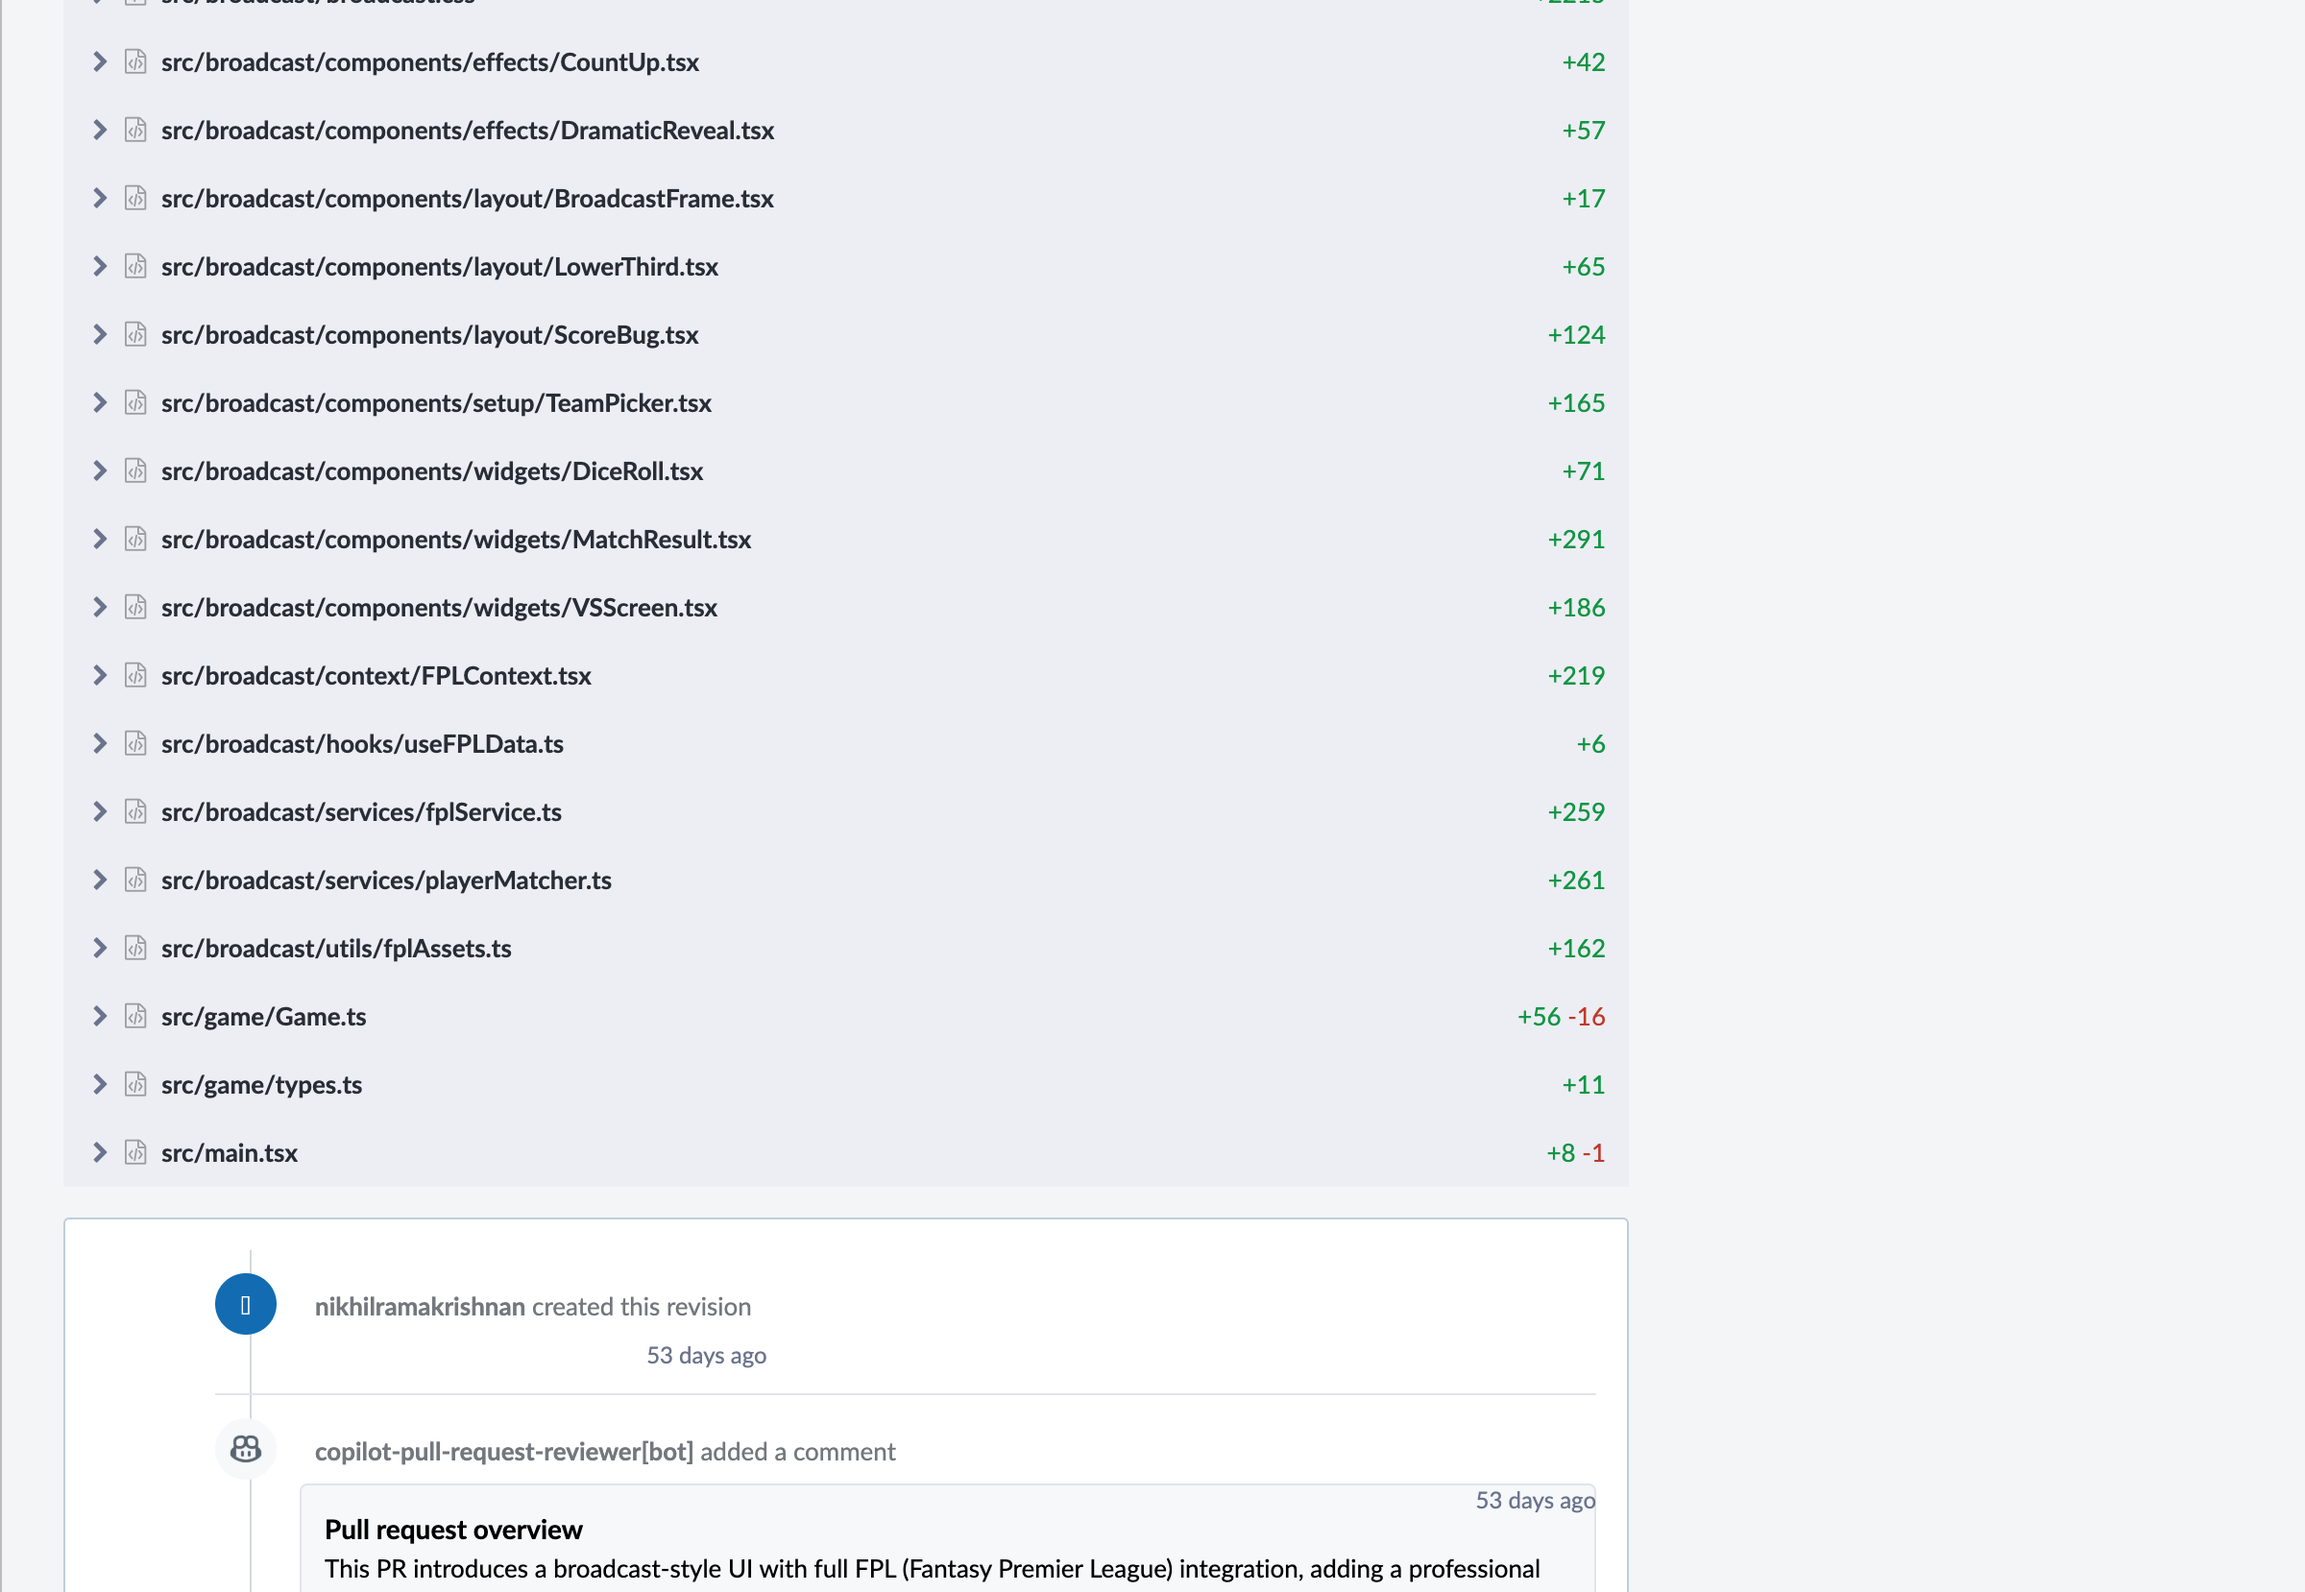
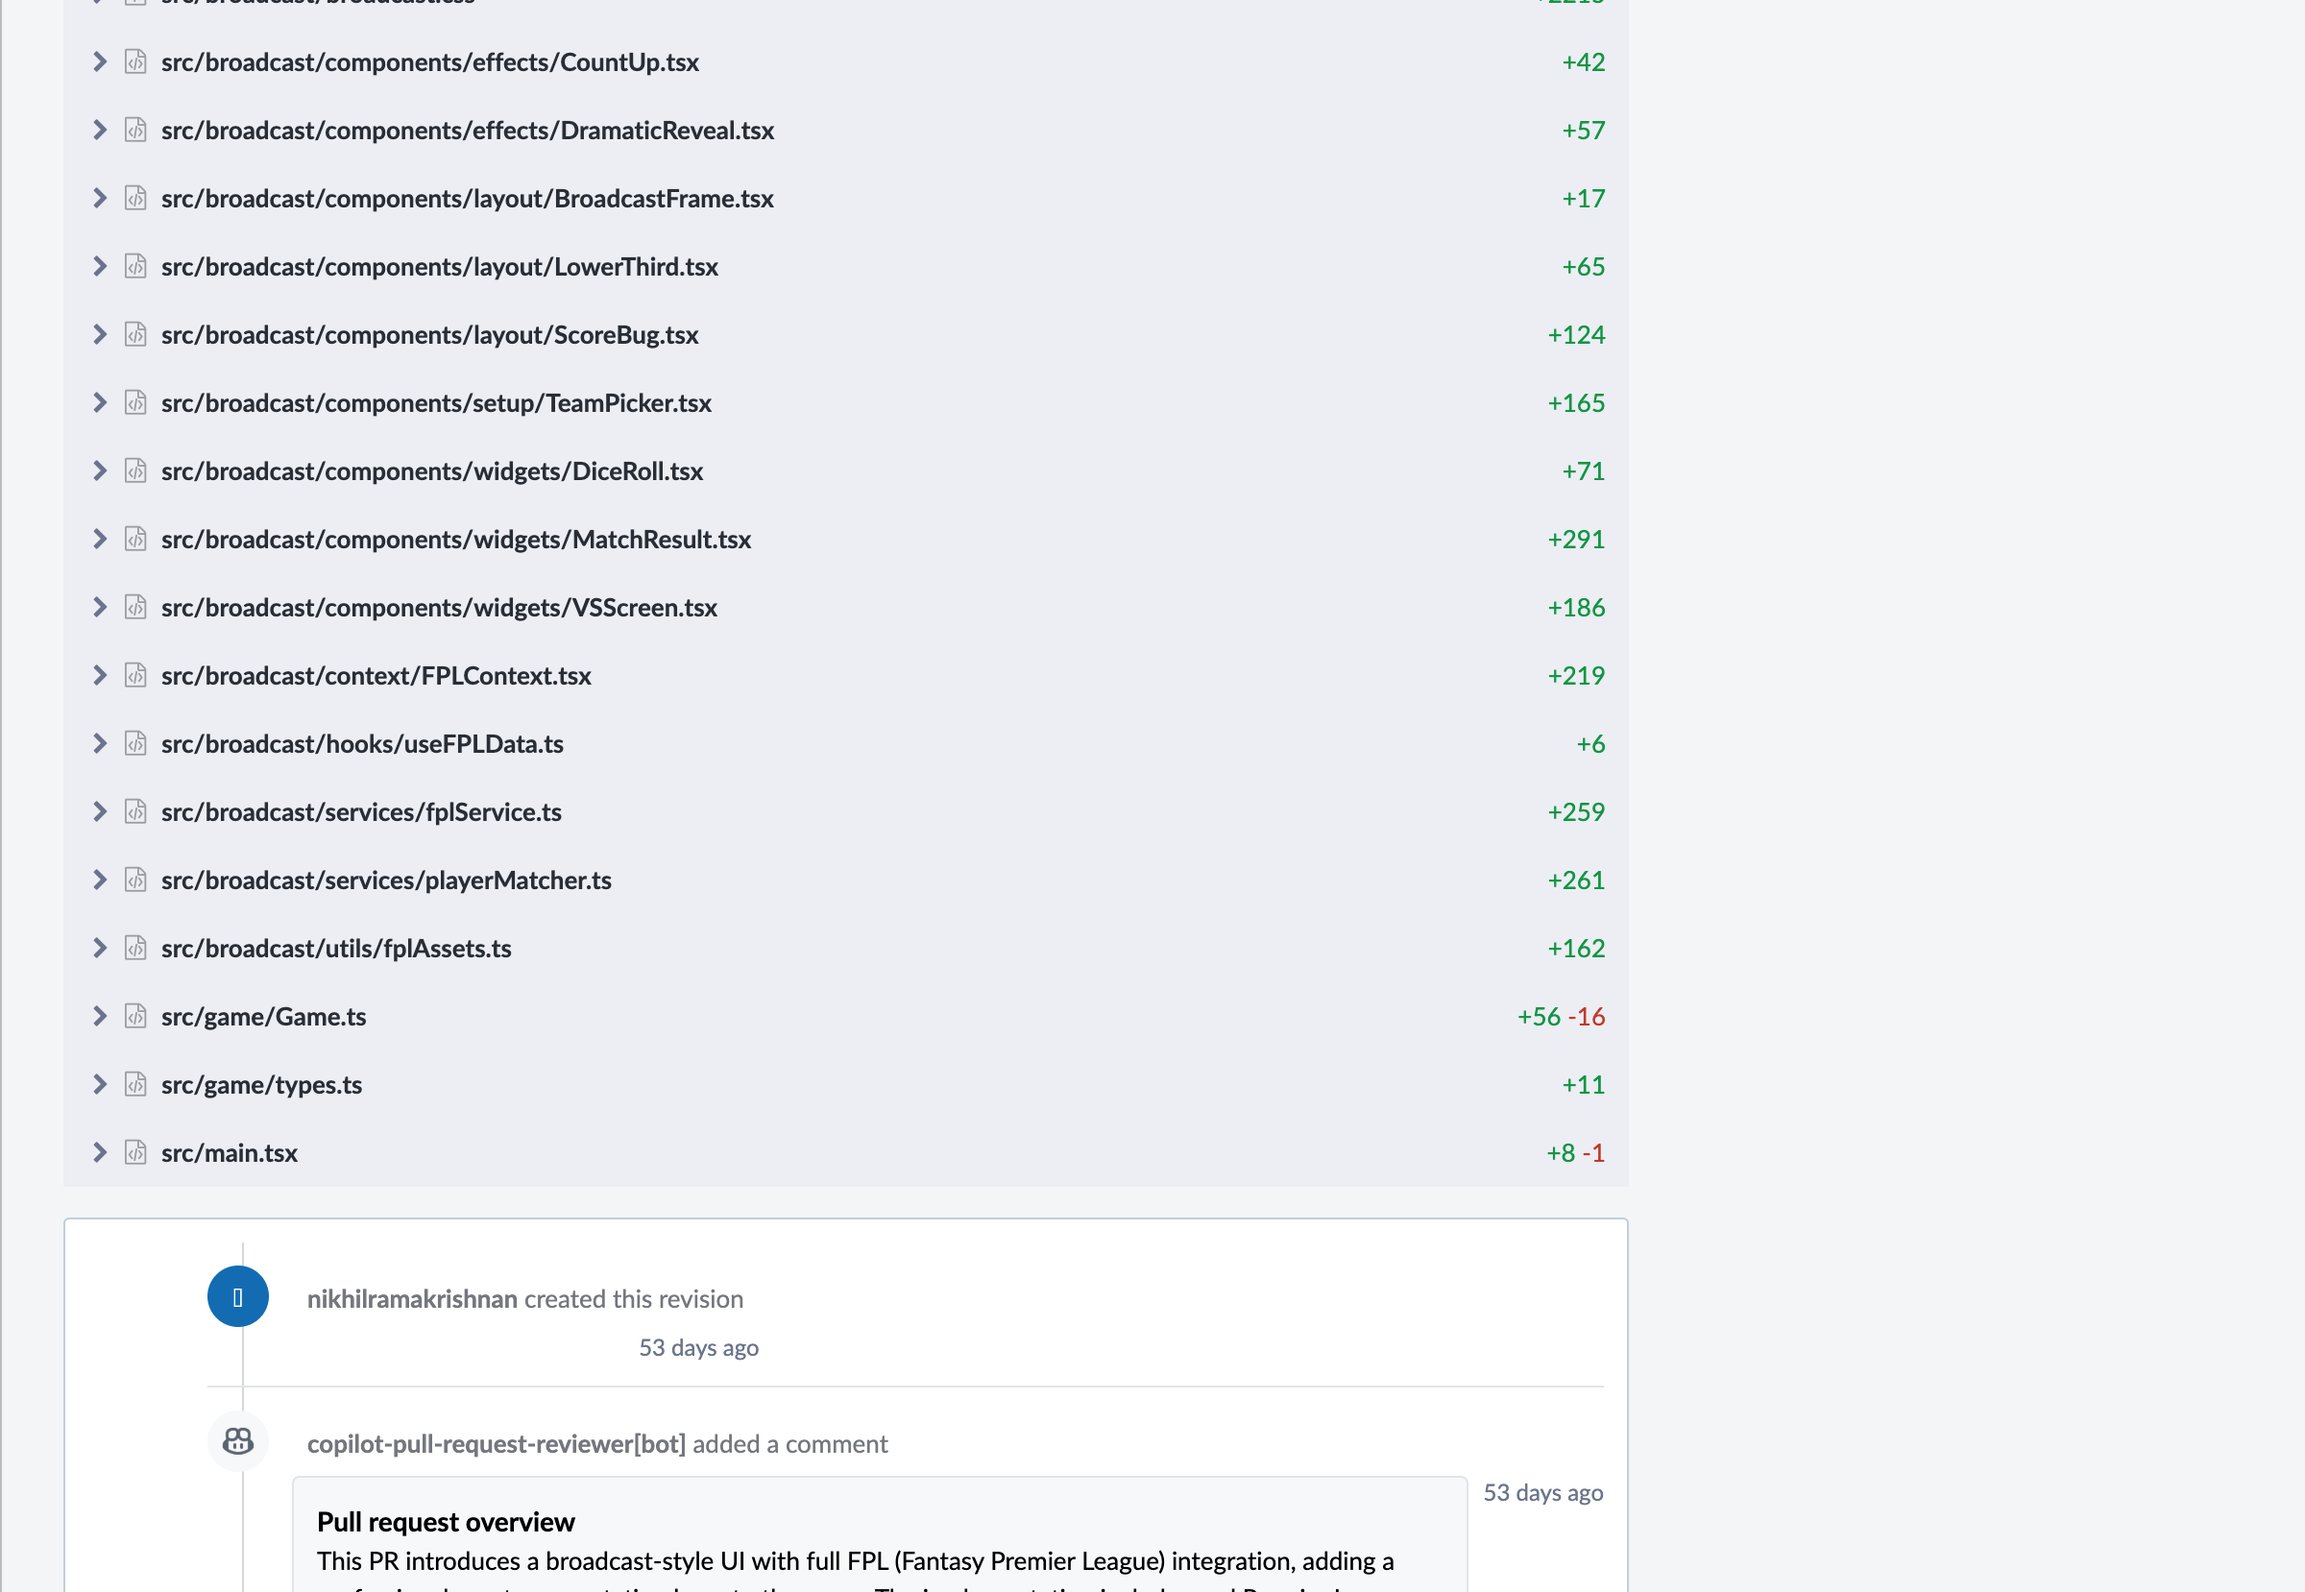
fix: timeline comment overflow and indentation
- Add overflow-x:auto and max-width:100% to comment body containers
- Add word-break:break-all on code elements in timeline
- Reduce timeline box padding from 16px to 12px
- Update screenshots

Changed region(s): [[0.125, 0.9536, 0.6562, 1.0], [0.0938, 0.7998, 0.375, 0.9228], [0.625, 0.9228, 0.6875, 0.9536]]

diff --git a/internal/templates/page.html b/internal/templates/page.html
@@ -97,6 +97,9 @@
       text-decoration: none;
     }
     .phabricator-main-menu-alerts .alert-notifications:hover { color: rgba(255,255,255,0.8); }
+    /* Timeline comment overflow */
+    .phui-timeline-view code { overflow-wrap: break-word; word-break: break-all; }
+    .phui-timeline-view pre { overflow-x: auto; max-width: 100%; }
     /* Dark mode fixes */
     .phui-theme-dark .phui-comment-form-view { background: #1B2028; border-color: #464C5C; }
     .phui-theme-dark .phui-comment-action-bar { border-color: #464C5C; }

diff --git a/internal/server/pr_handler.go b/internal/server/pr_handler.go
@@ -364,7 +364,7 @@ func renderTimeline(b *strings.Builder, pr *ghapi.PullRequest, reviews []ghapi.R
 		return
 	}
 
-	b.WriteString(`<div class="phui-box phui-box-border phui-object-box" style="padding:16px; margin:16px 0;">`)
+	b.WriteString(`<div class="phui-box phui-box-border phui-object-box" style="padding:12px; margin:16px 0;">`)
 	b.WriteString(`<div class="phui-timeline-view">`)
 	for i, ev := range events {
 		renderTimelineEvent(b, ev, i == len(events)-1)
@@ -406,7 +406,7 @@ func renderTimelineEvent(b *strings.Builder, ev timelineEvent, isLast bool) {
 	if isMajor {
 		fmt.Fprintf(b, `<div class="phui-timeline-extra" style="font-size:12px; color:#6b748c; margin-bottom:8px;">%s</div>`,
 			esc(timeAgo(ev.CreatedAt)))
-		b.WriteString(`<div style="background:#f6f8fa; border:1px solid #e3e4e8; border-radius:4px; padding:12px; font-size:13px; line-height:1.5; overflow-wrap:break-word; word-break:break-word;">`)
+		b.WriteString(`<div style="background:#f6f8fa; border:1px solid #e3e4e8; border-radius:4px; padding:12px; font-size:13px; line-height:1.5; overflow-wrap:break-word; word-break:break-word; overflow-x:auto; max-width:100%;">`)
 		b.WriteString(remarkup.Render(ev.Body))
 		b.WriteString(`</div>`)
 	} else {
